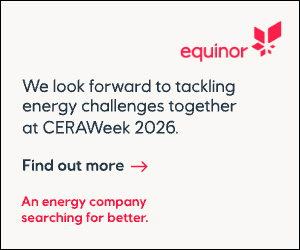
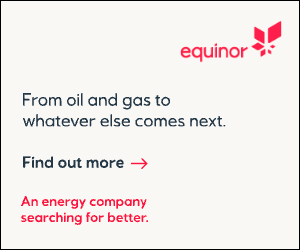
sdf

diff --git a/route_02/Equinor_US_CERAWeek_Banner_728x90/styles.css b/route_02/Equinor_US_CERAWeek_Banner_728x90/styles.css
@@ -59,18 +59,21 @@ html, body {
   top: 35px;
 }
 .copy2{
-  width: 337px;
-  height: 22px;
   position: absolute;
   left: 21.5px;
   clip-path: inset(0 100% 0 0);
   opacity: 0;
 }
-#copy2a{
-  top: 34.5px;
+#copy2a {
+  top: 24.5px;
+  width: 180px;
+  height: 21px;
 }
-#copy2b{
+#copy2b {
   top: 46px;
+  width: 250px;
+  height: 17px;
+  left: 20px;
 }
 .copy3{
   width: 328px;

diff --git a/route_03/Equinor_US_CERAWeek_Banner_728x90/styles.css b/route_03/Equinor_US_CERAWeek_Banner_728x90/styles.css
@@ -59,18 +59,21 @@ html, body {
   top: 36px;
 }
 .copy2{
-  width: 337px;
-  height: 22px;
   position: absolute;
   left: 21.5px;
   clip-path: inset(0 100% 0 0);
   opacity: 0;
 }
-#copy2a{
-  top: 34.5px;
+#copy2a {
+    top: 24.5px;
+    width: 180px;
+    height: 21px;
 }
-#copy2b{
+#copy2b {
   top: 46px;
+  width: 250px;
+  height: 17px;
+  left: 20px;
 }
 .copy3{
   width: 328px;

diff --git a/route_02/Equinor_US_CERAWeek_Banner_300x250/styles.css b/route_02/Equinor_US_CERAWeek_Banner_300x250/styles.css
@@ -88,13 +88,13 @@ html, body {
 }
 #copy2a{
   top: 92px;
-  width: 128px;
+  width: 148px;
   height: 17px;
 }
 #copy2b{
-  top: 113.5px;
-  width: 143px;
-  height: 14px;
+  top: 112.5px;
+  width: 203px;
+  height: 13px;
 }
 #copy2c{
   top: 120px;

diff --git a/route_03/Equinor_US_CERAWeek_Banner_300x250/styles.css b/route_03/Equinor_US_CERAWeek_Banner_300x250/styles.css
@@ -89,13 +89,13 @@ html, body {
 }
 #copy2a{
   top: 92px;
-  width: 128px;
+  width: 148px;
   height: 17px;
 }
 #copy2b{
-  top: 113.5px;
-  width: 143px;
-  height: 14px;
+  top: 112.5px;
+  width: 203px;
+  height: 13px;
 }
 #copy2c{
   top: 120px;

diff --git a/route_02/Equinor_US_CERAWeek_Banner_728x90/index.html b/route_02/Equinor_US_CERAWeek_Banner_728x90/index.html
@@ -11,13 +11,14 @@
   </head>
   <body onload="init();">
     <div id="main">
-      <!-- <img src="images/728x90 OTC Message 2 - F4.jpg" class="full-width absolute" style="opacity: .5; z-index: 111;" alt=""> -->
+      <!-- <img src="images/f2.jpg" class="full-width absolute" style="opacity: .5; z-index: 111;" alt=""> -->
       <div class="copy1Container">
         <img src="images/copy1a.svg" id="copy1a" class="copy1" alt="">
       </div>
       
       <div class="copy2Container">
         <img src="images/copy2a.svg" id="copy2a" class="copy2" alt="">
+        <img src="images/copy2b.svg" id="copy2b" class="copy2" alt="">
       </div>
 
       <div id="cta">

diff --git a/route_03/Equinor_US_CERAWeek_Banner_728x90/index.html b/route_03/Equinor_US_CERAWeek_Banner_728x90/index.html
@@ -11,13 +11,14 @@
   </head>
   <body onload="init();">
     <div id="main">
-      <!-- <img src="images/f1.jpg" class="full-width absolute" style="opacity: .5; z-index: 111;" alt=""> -->
+      <!-- <img src="images/f2.jpg" class="full-width absolute" style="opacity: .5; z-index: 111;" alt=""> -->
       <div class="copy1Container">
         <img src="images/copy1a.svg" id="copy1a" class="copy1" alt="">
       </div>
       
       <div class="copy2Container">
         <img src="images/copy2a.svg" id="copy2a" class="copy2" alt="">
+        <img src="images/copy2b.svg" id="copy2b" class="copy2" alt="">
       </div>
 
       <div id="cta">

diff --git a/route_02/Equinor_US_CERAWeek_Banner_728x90/main.js b/route_02/Equinor_US_CERAWeek_Banner_728x90/main.js
@@ -28,7 +28,7 @@ function animate() {
   tl.to(".copy1Container", 0.5, {autoAlpha:0, ease: Power1.easeOut}, '+=2.5');
 
   tl.to(".copy2Container", 1.5, { x:0, ease: Power1.easeOut}, '>');
-  tl.staggerTo(["#copy2a"], 1, {autoAlpha:1,  clipPath: "inset(0% 0% 0% 0%)", ease: Power1.easeOut}, 0.7, '<');
+  tl.staggerTo(["#copy2a, #copy2b"], 1, {autoAlpha:1,  clipPath: "inset(0% 0% 0% 0%)", ease: Power1.easeOut}, 0.7, '<');
 
   tl.to("#cta", 1.5, { x:0, ease: Power1.easeOut}, '>+=1');
   tl.to(".ctaText", 0.5, {autoAlpha:1, clipPath: "inset(0% 0% 0% 0%)", ease: Power1.easeOut}, '<');

diff --git a/route_03/Equinor_US_CERAWeek_Banner_300x250/index.html b/route_03/Equinor_US_CERAWeek_Banner_300x250/index.html
@@ -11,7 +11,7 @@
   </head>
   <body onload="init();">
     <div id="main">
-      <!-- <img src="images/300x250 OTC Message 1 - F6.jpg" class="full-width absolute" style="z-index: 111; opacity: .5;" alt=""> -->
+      <!-- <img src="images/f2.jpg" class="full-width absolute" style="z-index: 111; opacity: .5;" alt=""> -->
       <img src="images/bg.jpeg" id="bg" class="absolute full-width" />
       <div class="copy1Container">
         <img src="images/copy1a.svg" id="copy1a" class="copy1" alt="">

diff --git a/route_03/Equinor_US_CERAWeek_Banner_728x90/main.js b/route_03/Equinor_US_CERAWeek_Banner_728x90/main.js
@@ -28,7 +28,7 @@ function animate() {
   tl.to(".copy1Container", 0.5, {autoAlpha:0, ease: Power1.easeOut}, '+=2.5');
 
   tl.to(".copy2Container", 1.5, { x:0, ease: Power1.easeOut}, '>');
-  tl.staggerTo(["#copy2a"], 1, {autoAlpha:1,  clipPath: "inset(0% 0% 0% 0%)", ease: Power1.easeOut}, 0.7, '<');
+  tl.staggerTo(["#copy2a, #copy2b"], 1, {autoAlpha:1,  clipPath: "inset(0% 0% 0% 0%)", ease: Power1.easeOut}, 0.7, '<');
 
   tl.to("#cta", 1.5, { x:0, ease: Power1.easeOut}, '>+=1');
   tl.to(".ctaText", 0.5, {autoAlpha:1, clipPath: "inset(0% 0% 0% 0%)", ease: Power1.easeOut}, '<');